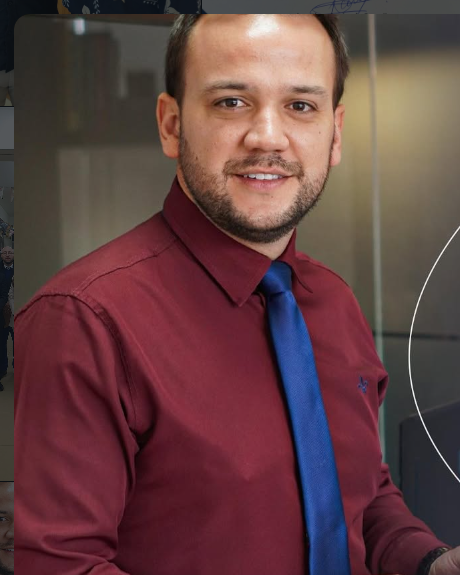
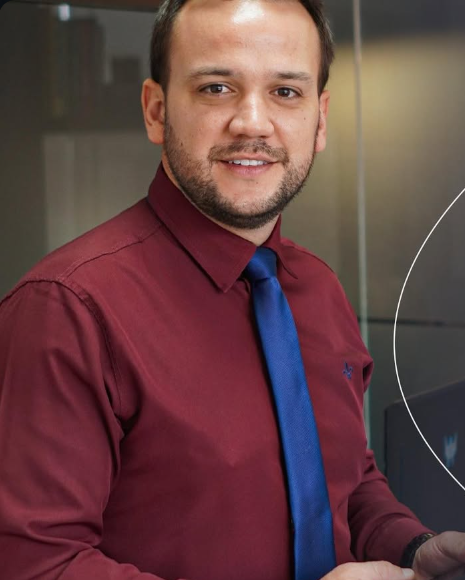
fix(ui): remove badge overlay from portrait and embed exact business pin on maps

diff --git a/index.html b/index.html
@@ -427,21 +427,13 @@
 
         <!-- Coluna Visual Hero com Retrato Oficial Recortado -->
         <div class="hero-visual">
-          <a href="https://www.google.com/search?q=Dassaiev+Borges+Advocacia&amp;ie=UTF-8#lrd=0x9522690022da5e87:0x3b5a7b53486d9f1d,1,,,," target="_blank" rel="noopener noreferrer" class="floating-google-badge" title="Ver avaliações 5,0 estrelas de Dassaiev Borges Advocacia no Google">
-            <div class="score tabular-nums">5,0</div>
-            <div>
-              <div class="stars" aria-hidden="true">★★★★★</div>
-              <div class="meta">Avaliação Máxima no Google</div>
-            </div>
-          </a>
-
           <div class="hero-portrait-frame">
             <figure class="hero-portrait-inner">
               <img
                 src="assets/img/dr-dassaiev-hero.png"
                 alt="Dr. Dassaiev Borges Francisco - Advogado Titular OAB/RS 108.403 no escritório em Torres/RS"
-                width="465"
-                height="852"
+                width="460"
+                height="575"
                 fetchpriority="high"
               />
               <figcaption class="hero-caption-overlay">
@@ -1220,7 +1212,7 @@
             </div>
 
             <div class="hero-cta-group" style="margin-bottom: 0;">
-              <a href="https://www.google.com/maps/search/?api=1&amp;query=Avenida+Alfiero+Zanardi+13+Praia+da+Cal+Torres+RS+95560-000" target="_blank" rel="noopener noreferrer" class="btn btn-bronze">
+              <a href="https://www.google.com/maps?cid=4276856554877706013" target="_blank" rel="noopener noreferrer" class="btn btn-bronze">
                 <span>Traçar Rota no Google Maps</span>
               </a>
               <a href="https://www.google.com/search?q=Dassaiev+Borges+Advocacia&amp;ie=UTF-8#lrd=0x9522690022da5e87:0x3b5a7b53486d9f1d,1,,,," target="_blank" rel="noopener noreferrer" class="btn btn-outline-bronze">
@@ -1232,7 +1224,7 @@
           <div class="map-frame-wrapper">
             <iframe
               title="Mapa de Localização Dassaiev Borges Advocacia - Av. Alfiero Zanardi, 13, Praia da Cal, Torres/RS"
-              src="https://www.google.com/maps?q=Avenida+Alfiero+Zanardi,+13,+Praia+da+Cal,+Torres,+RS,+95560-000&amp;output=embed"
+              src="https://maps.google.com/maps?q=Dassaiev+Borges+Advocacia&amp;cid=4276856554877706013&amp;t=&amp;z=17&amp;ie=UTF8&amp;iwloc=&amp;output=embed"
               loading="lazy"
               referrerpolicy="no-referrer-when-downgrade"
               allowfullscreen

diff --git a/assets/css/styles.css b/assets/css/styles.css
@@ -590,39 +590,6 @@ body.arc-backdrop {
   text-transform: uppercase;
 }
 
-.floating-google-badge {
-  position: absolute;
-  top: 24px;
-  right: -20px;
-  left: auto;
-  z-index: 4;
-  background: rgba(24, 26, 34, 0.94);
-  backdrop-filter: blur(10px);
-  border: 1px solid var(--bronze-border);
-  border-radius: var(--radius-md);
-  padding: 12px 16px;
-  box-shadow: var(--shadow-md);
-  display: flex;
-  align-items: center;
-  gap: 12px;
-}
-
-.floating-google-badge .score {
-  font-size: 1.55rem;
-  font-weight: 800;
-  color: #FFFFFF;
-  line-height: 1;
-}
-
-.floating-google-badge .meta {
-  font-size: 0.76rem;
-  color: var(--text-muted-on-dark);
-}
-
-.floating-google-badge .stars {
-  color: var(--star-gold);
-  font-size: 0.85rem;
-}
 
 /* ==========================================================================
    TRUST BAR (CREDENCIAIS VERIFICÁVEIS)
@@ -1846,30 +1813,6 @@ textarea.form-control {
     aspect-ratio: 4 / 4.9;
   }
 
-  /* Selo 5.0 Google posicionado com segurança no canto superior para não obstruir o Dr. Dassaiev */
-  .floating-google-badge {
-    position: absolute;
-    top: -14px;
-    left: auto;
-    right: 12px;
-    padding: 8px 12px;
-    border-radius: var(--radius-sm);
-    gap: 8px;
-    box-shadow: var(--shadow-md);
-    background: rgba(24, 26, 34, 0.96);
-  }
-
-  .floating-google-badge .score {
-    font-size: 1.25rem;
-  }
-
-  .floating-google-badge .meta {
-    font-size: 0.72rem;
-  }
-
-  .floating-google-badge .stars {
-    font-size: 0.78rem;
-  }
 
   .hero-caption-overlay {
     bottom: 12px;

diff --git a/bio.html b/bio.html
@@ -246,7 +246,7 @@
 
       <!-- 8. Localização no Google Maps -->
       <a
-        href="https://www.google.com/maps/search/?api=1&amp;query=Avenida+Alfiero+Zanardi+13+Praia+da+Cal+Torres+RS+95560-000"
+        href="https://www.google.com/maps?cid=4276856554877706013"
         target="_blank"
         rel="noopener noreferrer"
         class="bio-link-btn"
